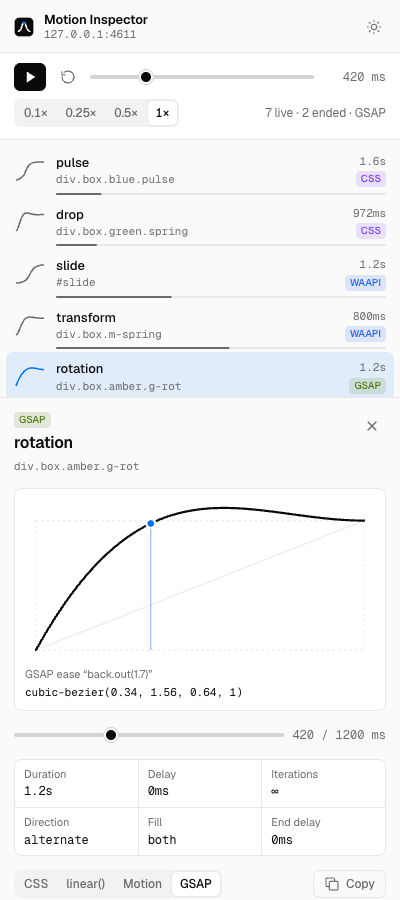
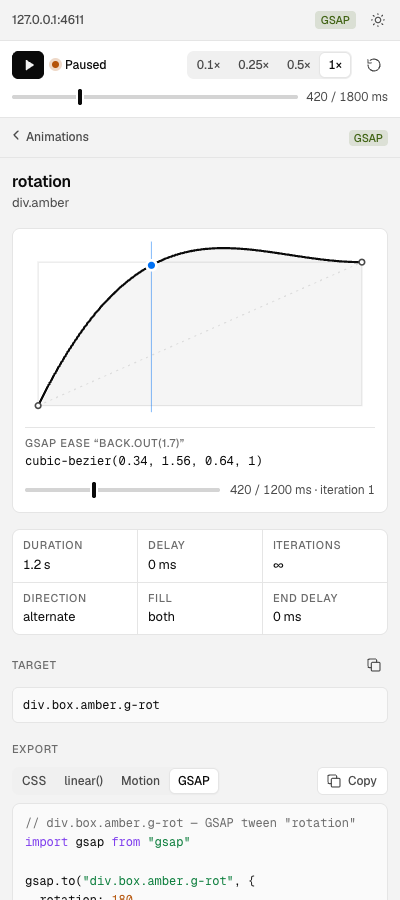
Release 0.2.0: README, changelog, fresh screenshots
Screenshots cover the list, the detail view and the noisy Tailwind-style
page, light and dark.

diff --git a/README.md b/README.md
@@ -12,8 +12,10 @@ It lives in Chrome's side panel, so it stays open while you hover, click and scr
 
 | Light | Dark |
 | ----- | ---- |
-| ![Light, spring selected](screenshots/panel-light.png) | ![Dark, spring selected](screenshots/panel-dark.png) |
 | ![Light, list](screenshots/list-light.png) | ![Dark, list](screenshots/list-dark.png) |
+| ![Light, spring detail](screenshots/detail-light.png) | ![Dark, spring detail](screenshots/detail-dark.png) |
+| ![Light, noisy Tailwind page: skeleton pulses grouped](screenshots/noisy-light.png) | ![Dark, noisy page paused](screenshots/noisy-dark.png) |
+| ![Light, pulse group expanded](screenshots/noisy-expanded-light.png) | ![Dark, one pulse in its 4th iteration](screenshots/noisy-detail-dark.png) |
 
 ## Install (no Node required)
 
@@ -31,16 +33,18 @@ Needs Chrome 116 or newer (side panel API). Edge, Brave, Arc and other Chromium 
 ## How to use
 
 - **Open the panel** on the tab you want to inspect. It follows the active tab and re-attaches after reloads.
-- **Pause / play** everything with the button or `Space`. GSAP's global timeline pauses with it.
-- **Scrub** with the slider. Every animation is moved to the same time from its start, the same model DevTools uses.
+- **Pause / play** everything with the button or `Space`. GSAP's global timeline pauses with it. The dot next to the button says whether the page is **Live** or **Paused**.
+- **Scrub** with the timeline. While the page is live the timeline sits idle (dashed, no playhead); grab it and everything pauses and moves to the same time from its start, the model DevTools uses.
 - **Slow it down** with 0.1×, 0.25× or 0.5×. The rate also applies to animations that start later.
-- **Click a row** to select it. The element is outlined on the page and the detail view shows:
+- **The list** shows what's running now (**Live**); **Ended** and **All** are one click away. Identical animations on many elements fold into one row (`pulse ×12`) that expands to the elements, with their size so you can tell them apart. Zero-length animations are hidden behind a note. Rows name the element the way you would (`button.chip “Design”`, `div in article.card`), not with a selector path. Hover a row to outline its element on the page; `↑`/`↓` move between rows, `→`/`←` open and close a group, `Enter` opens.
+- **Open an animation** to drill into it (`Escape` or the back button returns to the list where you left it). The element stays outlined on the page and the detail view shows:
   - the easing curve with a playhead, and the easing as written;
+  - a scrubber for that one animation. Loops scrub within the current iteration and say which one (`372 / 2000 ms · iteration 14`);
   - duration, delay, iterations, direction, fill, end delay;
-  - a scrubber for that one animation;
-  - the keyframes;
-  - the export, in four tabs: **CSS**, **linear()**, **Motion**, **GSAP**, with a Copy button.
-- **Catching hover transitions:** pause first, then hover. New animations are held the moment they start, and finished ones stay in the list (dimmed) so you can still export them.
+  - the full selector, copyable;
+  - the export, in four tabs: **CSS**, **linear()**, **Motion**, **GSAP**, with a Copy button;
+  - the keyframes.
+- **Catching hover transitions:** pause first, then hover. New animations are held the moment they start, and finished ones stay under **Ended** so you can still export them.
 
 ### What the exports do
 
@@ -98,7 +102,7 @@ pnpm icons          # rasterize public/icon.svg
 
 `pnpm e2e` loads the built extension into Playwright's Chromium, opens each fixture page, and checks that the panel lists the right animations, that pause freezes `currentTime`, that scrubbing sets it, that the rate applies, that every export tab produces code, and that closing the panel leaves the page running at 1×. It also writes the screenshots in `screenshots/`. Playwright can't click the toolbar icon or read the real side panel's DOM, so the UI checks run on the same panel page opened in a tab with `?tabId=<fixture tab>`. One extra check opens the real side panel with `chrome.sidePanel.open` and confirms it follows the active tab and injects the inspector.
 
-The fixtures cover CSS `@keyframes`, CSS transitions, WAAPI with a cubic-bezier, a spring via `linear()`, a GSAP timeline and Motion's `animate()`. GSAP and Motion are served from `node_modules`, no CDN.
+The fixtures cover CSS `@keyframes`, CSS transitions, WAAPI with a cubic-bezier, a spring via `linear()`, a GSAP timeline, Motion's `animate()`, and a noisy Tailwind-style page (twelve `animate-pulse` skeletons, chips flipping every 180 ms, zero-length WAAPI calls) that checks grouping, the ended filter and the iteration readout. GSAP and Motion are served from `node_modules`, no CDN.
 
 ## Architecture
 
@@ -110,15 +114,17 @@ entrypoints/
 └── sidepanel/
     ├── main.ts          # tab tracking, polling, transport controls
     ├── bridge.ts        # every agent call is one chrome.scripting.executeScript
-    ├── list.ts          # keyed animation rows, updated in place
-    ├── detail.ts        # curve, timing, keyframes, export tabs
+    ├── list.ts          # keyed, grouped rows, updated in place; keyboard nav
+    ├── detail.ts        # drill-in view: curve, scrubber, timing, export tabs
     ├── curve.ts         # SVG curves
     └── style.css
 
 lib/
 ├── easing.ts            # parse / evaluate / sample to linear() / spring + spring fit
 ├── gsap-eases.ts        # GSAP ease names ↔ beziers
-├── timing.ts            # iteration progress and curves for the panel
+├── timing.ts            # iteration position, per-animation scrub range, curves
+├── grouping.ts          # fold identical animations, live/ended filter, no-op check
+├── label.ts             # human labels for elements (skips Tailwind utilities)
 ├── selector.ts          # short unique selectors
 └── export/              # css, linear, motion, gsap: pure functions, unit-tested
 
@@ -131,7 +137,7 @@ docs/plan.md             # design notes and v1 scope
 
 - [WXT](https://wxt.dev) for the MV3 build.
 - TypeScript strict, with `exactOptionalPropertyTypes` and `noUncheckedIndexedAccess`. No UI framework, just a small `h()` DOM helper.
-- [Geist](https://vercel.com/font) and Geist Mono.
+- [Geist](https://vercel.com/font) for the UI, Geist Mono for code. Same tokens as its sibling extension, RPC.
 - [Vitest](https://vitest.dev) and [Playwright](https://playwright.dev) for tests.
 
 ## License

diff --git a/CHANGELOG.md b/CHANGELOG.md
@@ -8,6 +8,52 @@ adheres to [Semantic Versioning](https://semver.org/).
 
 Nothing yet.
 
+## [0.2.0] — 2026-10-28
+
+UI polish after trying 0.1.0 on a real Next.js/Tailwind site.
+
+### Changed
+
+- **Type.** Geist for the whole UI; Geist Mono only for code (export,
+  selector, easing strings, keyframe values). Numbers use tabular figures.
+  Same tokens as RPC, with every text colour at 4.5:1 or better on the
+  surfaces it sits on.
+- **No more "loading" look.** The transport shows a static Live / Paused
+  state. While live, the timeline is idle instead of crawling like a
+  progress bar; the playhead appears when you pause or scrub. List rows
+  no longer carry ticking progress bars.
+- **Layout.** The detail view is a drill-in with a back button (and
+  `Escape`), so neither the list nor the detail is squeezed into a third
+  of the panel. The list keeps its scroll position and focus.
+- **Header.** Just the host, a GSAP badge when present, and the theme
+  toggle; Chrome already titles the panel.
+- **Labels.** Rows name elements the way you would (`div.skeleton`,
+  `button.chip “Design”`, `div in article.card`), skipping Tailwind
+  utilities and generated names. The full selector is in the detail view,
+  wrapped and copyable.
+- **Polling.** Specs are sent once; each 250 ms poll carries live state
+  only.
+
+### Added
+
+- Identical animations fold into one row with a count (`pulse ×12`) that
+  expands to the elements, with their sizes.
+- Live / Ended / All filter, Live by default. Zero-length animations are
+  hidden behind a note.
+- Hovering a row outlines its element on the page.
+- Keyboard: `↑`/`↓` between rows, `→`/`←` to open and close a group,
+  `Enter` to open, `Escape` to go back.
+- A noisy fixture page and E2E checks for grouping, the ended filter and
+  the iteration readout.
+
+### Fixed
+
+- The per-animation readout for loops showed the total elapsed time
+  (`26372 / 2000 ms`). It now shows the position inside the current
+  iteration (`372 / 2000 ms · iteration 14`) and the slider stays in range.
+- The panel no longer flashes back to "Connecting…" when a page that's
+  already attached fires another load-complete event.
+
 ## [0.1.0] — 2026-10-28
 
 First release.
